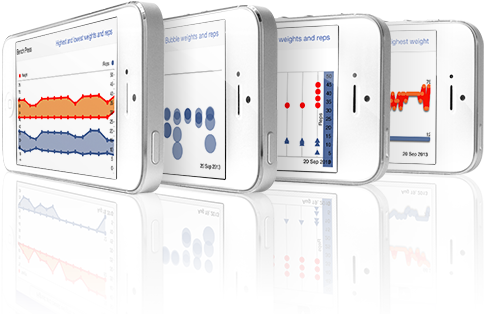
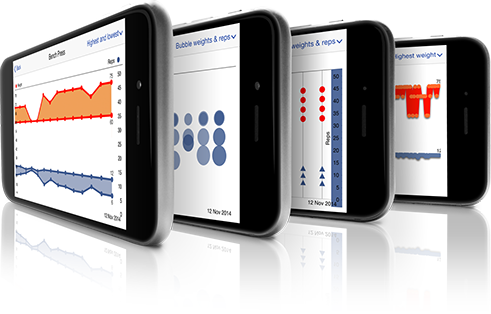
Update chart image to iPhone 6, fix responsive des

diff --git a/css/styles-smartphone.css b/css/styles-smartphone.css
@@ -494,6 +494,11 @@
 /** SCREEENSHOTS
 ------------------------------*/
 
+#screenshotstabsix .screenshottabs {
+	display: none;
+}
+
+
 .screenshots {
     background-image:url(../images/bg-featurepanelshadow-mobile.png);
 	background-size: 320px 54px;
